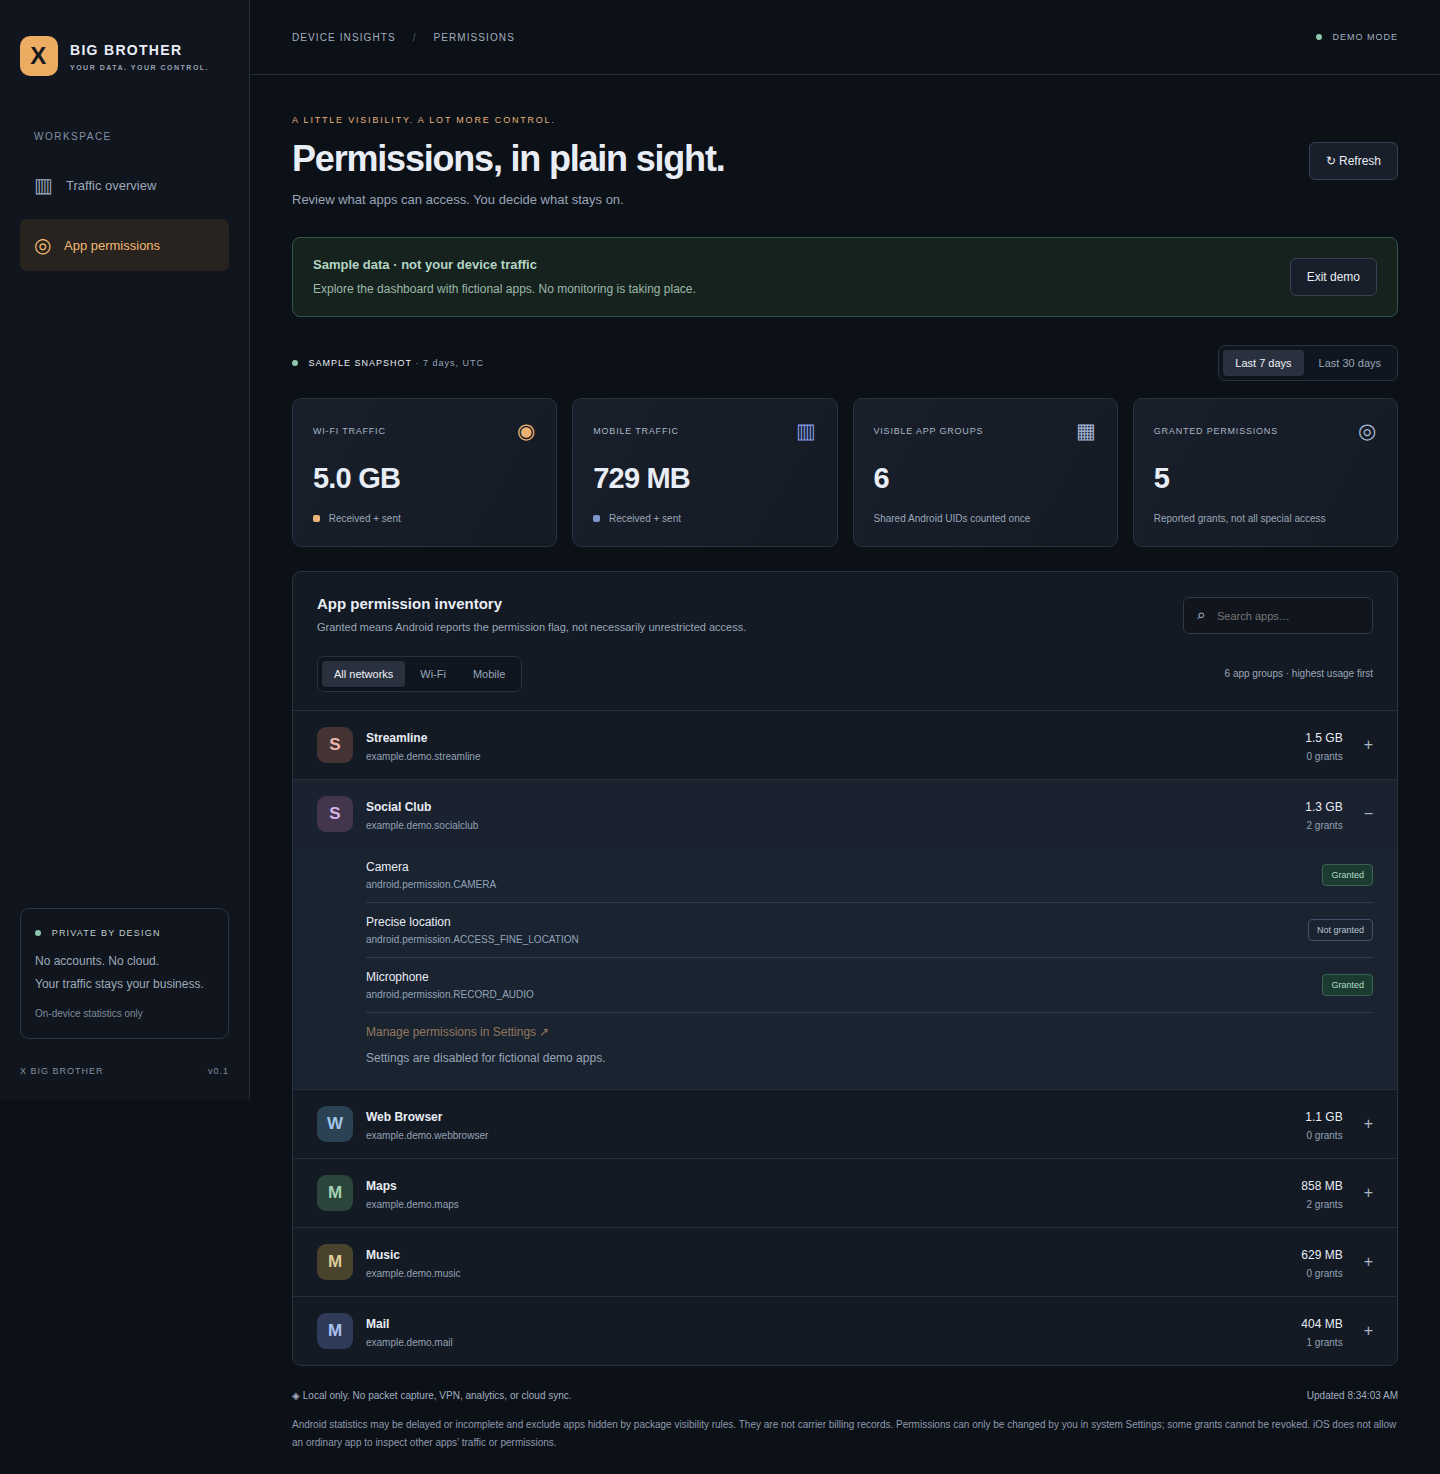
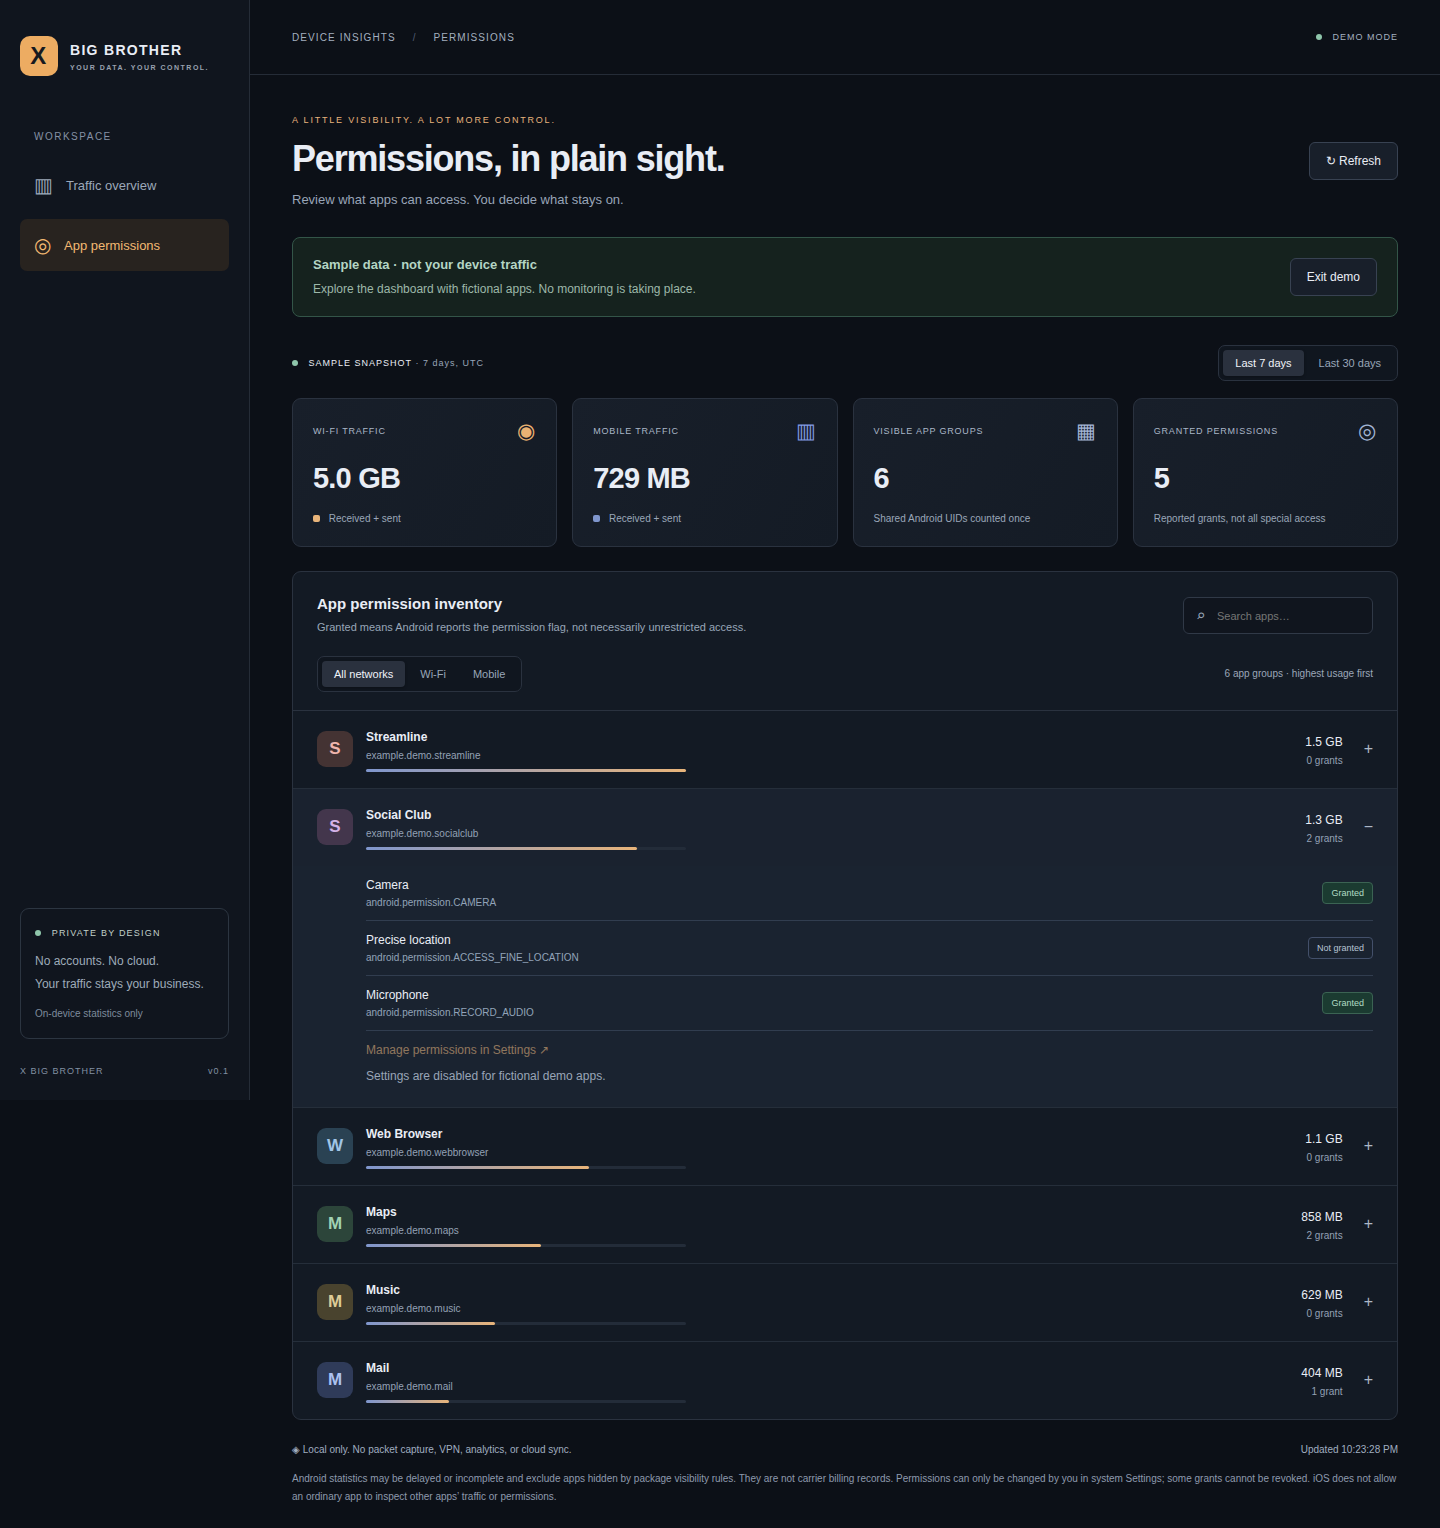
Improve dashboard UX and restructure README

diff --git a/src/App.tsx b/src/App.tsx
@@ -4,6 +4,8 @@ import { aggregate, bytesLabel, dayKeys, demoSnapshot, filterApps, total } from 
 import type { AppUsage, Network, Period, Snapshot } from './traffic'
 import './App.css'
 
+const plural = (count: number, noun: string) => `${count} ${noun}${count === 1 ? '' : 's'}`
+
 function App() {
   const [page, setPage] = useState<'traffic' | 'permissions'>('traffic')
   const [period, setPeriod] = useState<Period>(7)
@@ -67,6 +69,8 @@ function App() {
       ? 'Unavailable' : bytesLabel(total(days, kind))
   const max = Math.max(1, ...chartDays.map(day => total([day], network)))
   const filtered = filterApps(apps, search, network)
+  const showShare = hasUsage && !networkUnavailable
+  const topUsage = Math.max(1, ...filtered.map(app => total(app.days, network)))
   const granted = apps.reduce((sum, app) => sum + app.permissions.filter(p => p.granted).length, 0)
 
   const permissions = (app: AppUsage) => (
@@ -87,6 +91,7 @@ function App() {
 
   return (
     <div className="shell">
+      <a className="skip-link" href="#main">Skip to dashboard</a>
       <aside className="sidebar">
         <a className="brand" href="#main"><span className="brand-icon" aria-hidden="true">X</span><span>BIG BROTHER<small>YOUR DATA. YOUR CONTROL.</small></span></a>
         <div className="nav-label">WORKSPACE</div>
@@ -100,7 +105,8 @@ function App() {
 
       <main id="main">
         <header className="topbar"><span>DEVICE INSIGHTS <span className="slash">/</span> {page === 'traffic' ? 'OVERVIEW' : 'PERMISSIONS'}</span><span className="status"><i /> {demo ? 'DEMO MODE' : platform === 'android' ? 'ON DEVICE' : platform === 'ios' ? 'iOS · LIMITED ACCESS' : 'BROWSER PREVIEW'}</span></header>
-        <div className="content">
+        <div className="content" aria-busy={busy}>
+          <p className="visually-hidden" aria-live="polite">{busy ? 'Reading device data…' : snapshot ? `${demo ? 'Sample' : 'Device'} data updated. ${plural(filtered.length, 'app group')} listed.` : 'No device data available.'}</p>
           <div className="heading-row"><div><p className="eyebrow">A LITTLE VISIBILITY. A LOT MORE CONTROL.</p><h1>{page === 'traffic' ? 'Know where your data goes.' : 'Permissions, in plain sight.'}</h1><p className="subtitle">{page === 'traffic' ? 'Understand your network activity, one app at a time.' : 'Review what apps can access. You decide what stays on.'}</p></div>
             <button className="secondary refresh" disabled={busy} onClick={() => void refresh()}>{busy ? 'Reading…' : '↻ Refresh'}</button></div>
 
@@ -109,7 +115,7 @@ function App() {
                 {platform === 'ios' && <button className="settings-button" onClick={() => void runSettings(() => DeviceSettings.openAppSettings())}>Open this app’s Settings ↗</button>}</div><button className="primary" onClick={() => setDemo(true)}>Explore demo <span aria-hidden="true">→</span></button></section>
               : !hasUsage && !busy && <section className="notice"><div><strong>Allow usage access to see traffic</strong><p>Android requires your approval to read network statistics. Permission inventory is available separately. You can withdraw access at any time.</p></div><button className="primary" onClick={() => void runSettings(() => TrafficMonitor.openUsageSettings())}>Open usage settings ↗</button></section>}
 
-          {error && <div className="error" role="alert">{error}</div>}
+          {error && <div className="error" role="alert"><span>{error}</span><button className="secondary" disabled={busy} onClick={() => void refresh()}>{busy ? 'Reading…' : 'Try again'}</button></div>}
           {!demo && snapshot && snapshot.warnings.length > 0 && <details className="coverage"><summary>Coverage & reporting limitations ({snapshot.warnings.length})</summary><ul>{snapshot.warnings.map(warning => <li key={warning}>{warning}</li>)}</ul></details>}
           {!demo && unavailable.length > 0 && <div className="error" role="status">{unavailable.join(' and ')} statistics are unavailable on this device. Totals that include them are not shown.</div>}
 
@@ -135,14 +141,14 @@ function App() {
           </section>}
 
           <section className="panel apps-panel">
-            <div className="panel-heading"><div><h2>{page === 'traffic' ? 'App breakdown' : 'App permission inventory'}</h2><p>{page === 'traffic' ? 'Select an app to explore its trend and permissions.' : 'Granted means Android reports the permission flag, not necessarily unrestricted access.'}</p></div><label className="search"><span aria-hidden="true">⌕</span><input aria-label="Search apps" placeholder="Search apps…" value={search} onChange={event => setSearch(event.target.value)} /></label></div>
-            <div className="app-filter"><div className="segmented" aria-label="Network filter">{(['all', 'wifi', 'mobile'] as const).map(kind => <button key={kind} aria-pressed={network === kind} className={network === kind ? 'chosen' : ''} onClick={() => setNetwork(kind)}>{kind === 'all' ? 'All networks' : kind === 'wifi' ? 'Wi-Fi' : 'Mobile'}</button>)}</div><small>{filtered.length} app groups{networkUnavailable ? ' · network unavailable' : ' · highest usage first'}</small></div>
+            <div className="panel-heading"><div><h2>{page === 'traffic' ? 'App breakdown' : 'App permission inventory'}</h2><p>{page === 'traffic' ? 'Select an app to explore its trend and permissions.' : 'Granted means Android reports the permission flag, not necessarily unrestricted access.'}</p></div><label className="search"><span aria-hidden="true">⌕</span><input aria-label="Search apps" placeholder="Search apps…" value={search} onChange={event => setSearch(event.target.value)} />{search && <button className="clear-search" aria-label="Clear search" onClick={() => setSearch('')}>×</button>}</label></div>
+            <div className="app-filter"><div className="segmented" aria-label="Network filter">{(['all', 'wifi', 'mobile'] as const).map(kind => <button key={kind} aria-pressed={network === kind} className={network === kind ? 'chosen' : ''} onClick={() => setNetwork(kind)}>{kind === 'all' ? 'All networks' : kind === 'wifi' ? 'Wi-Fi' : 'Mobile'}</button>)}</div><small>{plural(filtered.length, 'app group')}{networkUnavailable ? ' · network unavailable' : ' · highest usage first'}</small></div>
             {filtered.length === 0 ? <div className="empty-apps"><strong>{search ? 'No matching apps' : 'No apps to show yet'}</strong><p>{search ? 'Try another name or package ID.' : busy ? 'Reading visible apps…' : 'Device data appears here when available. Demo data is always clearly labeled.'}</p></div> :
               <div className="app-list">{filtered.map((app, index) => <article className={`app-item ${selected === app.id ? 'selected' : ''}`} key={app.id}>
                 <button className="app-row" aria-expanded={selected === app.id} onClick={() => setSelected(selected === app.id ? null : app.id)}>
                   <span className={`app-avatar avatar-${index % 6}`} aria-hidden="true">{app.name.slice(0, 1)}</span>
-                  <span className="app-name"><strong>{app.name}</strong><small>{app.packages.join(' · ')}</small></span>
-                  <span className="app-value"><strong>{usageLabel(app.days, network)}</strong><small>{app.permissions.filter(p => p.granted).length} grants</small></span><span className="chevron" aria-hidden="true">{selected === app.id ? '−' : '+'}</span>
+                  <span className="app-name"><strong>{app.name}</strong><small>{app.packages.join(' · ')}</small>{showShare && <span className="app-share" aria-hidden="true"><i style={{ width: `${total(app.days, network) / topUsage * 100}%` }} /></span>}</span>
+                  <span className="app-value"><strong>{usageLabel(app.days, network)}</strong><small>{plural(app.permissions.filter(p => p.granted).length, 'grant')}</small></span><span className="chevron" aria-hidden="true">{selected === app.id ? '−' : '+'}</span>
                 </button>
                 {selected === app.id && <div className="app-detail">{app.packages.length > 1 && <p className="muted">Shared UID: traffic is combined; permission grants are grouped by permission name.</p>}{page === 'traffic' && <p className="muted">This app’s daily trend is shown in the chart above.</p>}{permissions(app)}</div>}
               </article>)}</div>}

diff --git a/src/App.css b/src/App.css
@@ -1,4 +1,7 @@
 .shell { display: flex; min-height: 100vh; }
+.visually-hidden { position: absolute; width: 1px; height: 1px; margin: -1px; padding: 0; overflow: hidden; clip-path: inset(50%); white-space: nowrap; }
+.skip-link { position: absolute; left: 12px; top: -60px; z-index: 5; background: #f0b36c; color: #20190f; padding: 10px 14px; border-radius: 6px; font-size: 12px; font-weight: 600; text-decoration: none; }
+.skip-link:focus-visible { top: 12px; }
 .sidebar { width: 250px; flex-shrink: 0; background: #10151e; border-right: 1px solid #252c37; padding: 36px 20px 24px; display: flex; flex-direction: column; position: fixed; height: 100dvh; }
 .brand { display: flex; gap: 12px; text-decoration: none; align-items: center; font-size: 14px; font-weight: 800; letter-spacing: 1.3px; }
 .brand-icon { background: #edac62; color: #16191f; border-radius: 10px; width: 38px; height: 40px; display: grid; place-items: center; font-size: 24px; }
@@ -34,7 +37,8 @@ h1 { font-size: clamp(25px, 2.5vw, 36px); letter-spacing: -1.2px; font-weight: 6
 .demo-notice { background: #15221e; border-color: #335548; }
 .demo-notice strong { color: #b4d5c4; }
 .demo-notice p { color: #9db8a9; }
-.error { padding: 15px; color: #ffb4ab; background: #321e23; border: 1px solid #75434b; border-radius: 7px; margin-bottom: 20px; font-size: 13px; }
+.error { display: flex; flex-wrap: wrap; gap: 12px; align-items: center; justify-content: space-between; padding: 15px; color: #ffb4ab; background: #321e23; border: 1px solid #75434b; border-radius: 7px; margin-bottom: 20px; font-size: 13px; }
+.error button { color: #ffd5cf; }
 .coverage { font-size: 12px; color: #b7c2d0; margin-bottom: 20px; line-height: 1.8; }
 summary { cursor: pointer; }
 .section-controls { display: flex; justify-content: space-between; align-items: center; gap: 16px; margin: 28px 0 17px; }
@@ -79,6 +83,9 @@ td, th { padding: 10px; border-bottom: 1px solid #303947; }
 .empty-chart p, .empty-apps p { font-size: 12px; line-height: 1.7; }
 .search { background: #10151e; border: 1px solid #303947; border-radius: 6px; display: flex; padding: 8px 12px; gap: 9px; color: #93a1b5; }
 .search input { width: 145px; min-width: 0; background: transparent; color: #e9edf5; font-size: 11px; }
+.search { align-items: center; }
+.clear-search { background: transparent; color: #b6c2d3; font-size: 15px; line-height: 1; padding: 0 2px; }
+.clear-search:hover { color: #f0f3f9; }
 .app-filter { padding: 20px 24px 18px; display: flex; justify-content: space-between; align-items: center; gap: 12px; border-bottom: 1px solid #2a323f; }
 .app-filter > small { color: #9ba7b9; font-size: 10px; }
 .app-item:not(:last-child) { border-bottom: 1px solid #252e3a; }
@@ -91,6 +98,8 @@ td, th { padding: 10px; border-bottom: 1px solid #303947; }
 .avatar-4 { background: #49432e; color: #ddcc97; }
 .avatar-5 { background: #2f3b59; color: #acc1f0; }
 .app-name { flex: 1; min-width: 0; }
+.app-share { display: block; height: 3px; border-radius: 2px; background: #232c39; margin-top: 8px; max-width: 320px; }
+.app-share i { display: block; height: 100%; border-radius: 2px; background: linear-gradient(90deg, #7f96cd, #e8b47a); min-width: 2px; }
 .app-name strong { font-size: 12px; font-weight: 550; }
 .app-name small, .app-value small { display: block; color: #93a1b5; font-size: 10px; margin-top: 5px; overflow-wrap: anywhere; }
 .app-value { text-align: right; }

diff --git a/README.md b/README.md
@@ -2,6 +2,44 @@
 
 **Your data. Your control.** A local-only Android and iOS app for understanding network usage and reviewing app permissions, built with React, TypeScript, and Capacitor. The same dashboard also runs as a static web build, with browser limitations stated up front.
 
+![Desktop traffic dashboard](docs/screenshots/desktop-traffic.png)
+
+> Playwright capture of **fictional demo data**, not a real device.
+> More views: [mobile traffic](docs/screenshots/mobile-traffic.png) · [desktop permissions](docs/screenshots/desktop-permissions.png) · [mobile permissions](docs/screenshots/mobile-permissions.png)
+
+## Quick start
+
+Requires Node.js 22.13+ and npm.
+
+```sh
+npm ci
+npm run dev
+```
+
+The browser opens an honest unavailable-data state, because a web page cannot read another app’s traffic. Select **Explore demo** to walk through the dashboard with clearly labeled fictional apps. No accounts, remote fonts, external APIs, or analytics are involved, and demo mode is never persisted.
+
+| I want to… | Go to |
+| --- | --- |
+| Learn the dashboard controls | [Using the dashboard](#using-the-dashboard) |
+| Know what the app can and cannot measure | [What it can actually do](#what-it-can-actually-do) |
+| Understand accuracy caveats | [Coverage and accuracy](#coverage-and-accuracy) |
+| Build the static web dashboard | [Web](#web) |
+| Build and run the Android app | [Android](#android) |
+| Build and run the iOS app | [iOS](#ios) |
+| Run checks locally | [Tests and CI](#tests-and-ci) |
+| Cut a release | [Publish packages and release](#publish-packages-and-release) |
+| Report a vulnerability | [SECURITY.md](SECURITY.md) |
+
+## Using the dashboard
+
+- **Traffic overview** and **App permissions** are separate workspace views; the header always states whether you are seeing on-device, iOS-limited, browser-preview, or demo data.
+- **Last 7 / Last 30 days** and the **All networks / Wi-Fi / Mobile** filters apply to the chart, the summary cards, and the app list together.
+- Selecting an app narrows the chart to that app group and reveals its permission list; **Show all apps** returns to the combined view.
+- The app list is sorted by highest usage, shows each app group’s share as a bar, and can be filtered with the search box (name or package ID) and cleared with the × button.
+- **View daily values** exposes the same chart data as an accessible table, and **Coverage & reporting limitations** lists anything the OS could not report.
+- Failed reads show an alert with a **Try again** action instead of stale or zeroed numbers.
+- Keyboard users get a **Skip to dashboard** link, visible focus rings, and a polite live region that announces refreshes.
+
 ## What it can actually do
 
 | Capability | Android | iOS |
@@ -14,14 +52,6 @@
 
 **An ordinary third-party app cannot promise to track all traffic or revoke every permission on either platform.** This project does not bypass OS isolation, decrypt traffic, infer data sharing from byte counts, or silently populate real dashboards with sample data.
 
-### Dashboard preview
-
-Playwright captures of **fictional demo data**, not a real device:
-
-![Desktop traffic dashboard](docs/screenshots/desktop-traffic.png)
-
-[Mobile traffic](docs/screenshots/mobile-traffic.png) · [Desktop permissions](docs/screenshots/desktop-permissions.png) · [Mobile permissions](docs/screenshots/mobile-permissions.png)
-
 ### Coverage and accuracy
 
 - Android uses `NetworkStatsManager.querySummary` on a background worker, one query per network per UTC day. Bytes include both received and sent traffic.
@@ -32,17 +62,6 @@ Playwright captures of **fictional demo data**, not a real device:
 - Inaccessible networks are labeled **Unavailable**, not measured zero. A failed refresh clears old data and offers retry.
 - Permission flags do not capture all App Ops, special access, one-time grants, or background restrictions. Some normal/system permissions cannot be revoked; system Settings remains authoritative.
 - iOS Settings → **Cellular** shows system-maintained cellular usage. Settings → **Privacy & Security** manages categories of permissions. iOS does not offer this app public APIs for an all-app Wi-Fi history or permission inventory.
-
-## Run the dashboard
-
-Requires Node.js 22.13+ and npm.
-
-```sh
-npm ci
-npm run dev
-```
-
-The browser starts with an honest unavailable-data state. Select **Explore demo** to use fictional app data. Demo mode is never persisted; it cannot open another app’s settings. There are no accounts, remote fonts, external APIs, or analytics.
 
 ## Web
 
